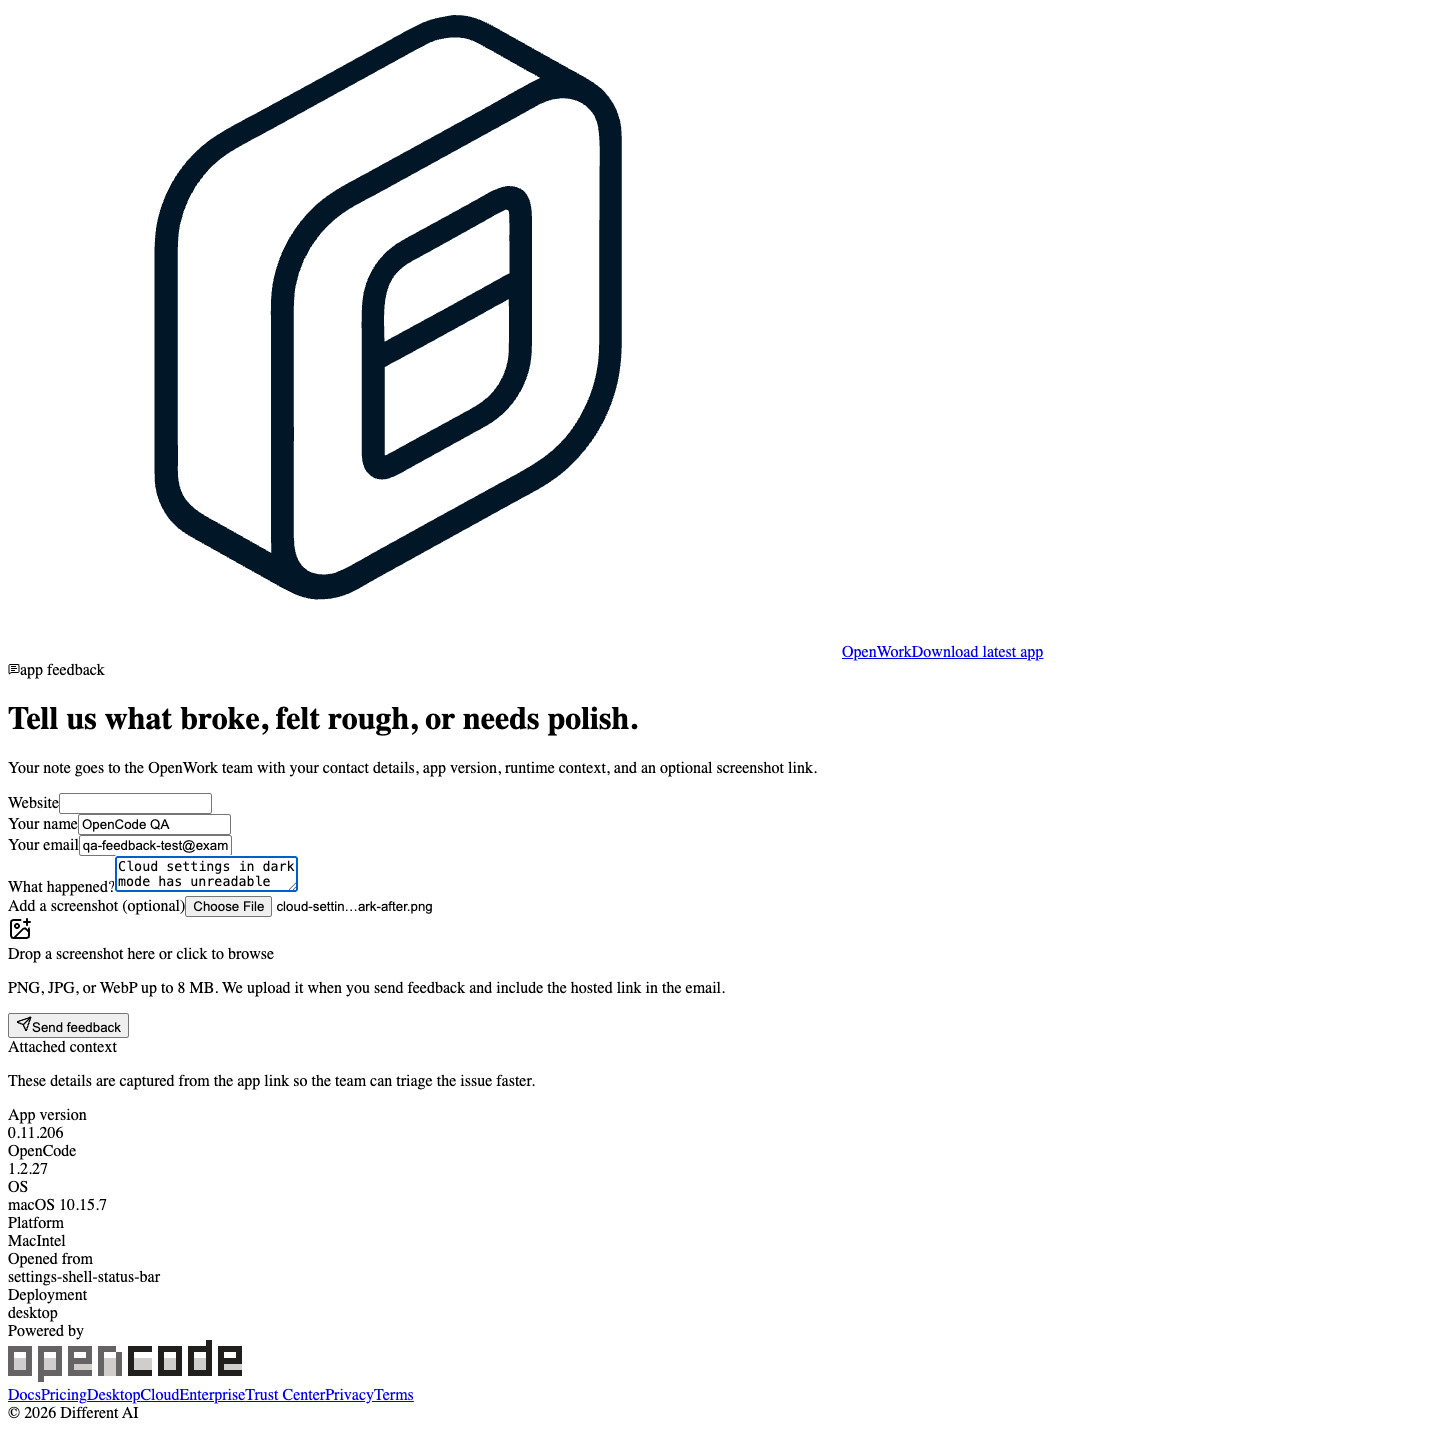
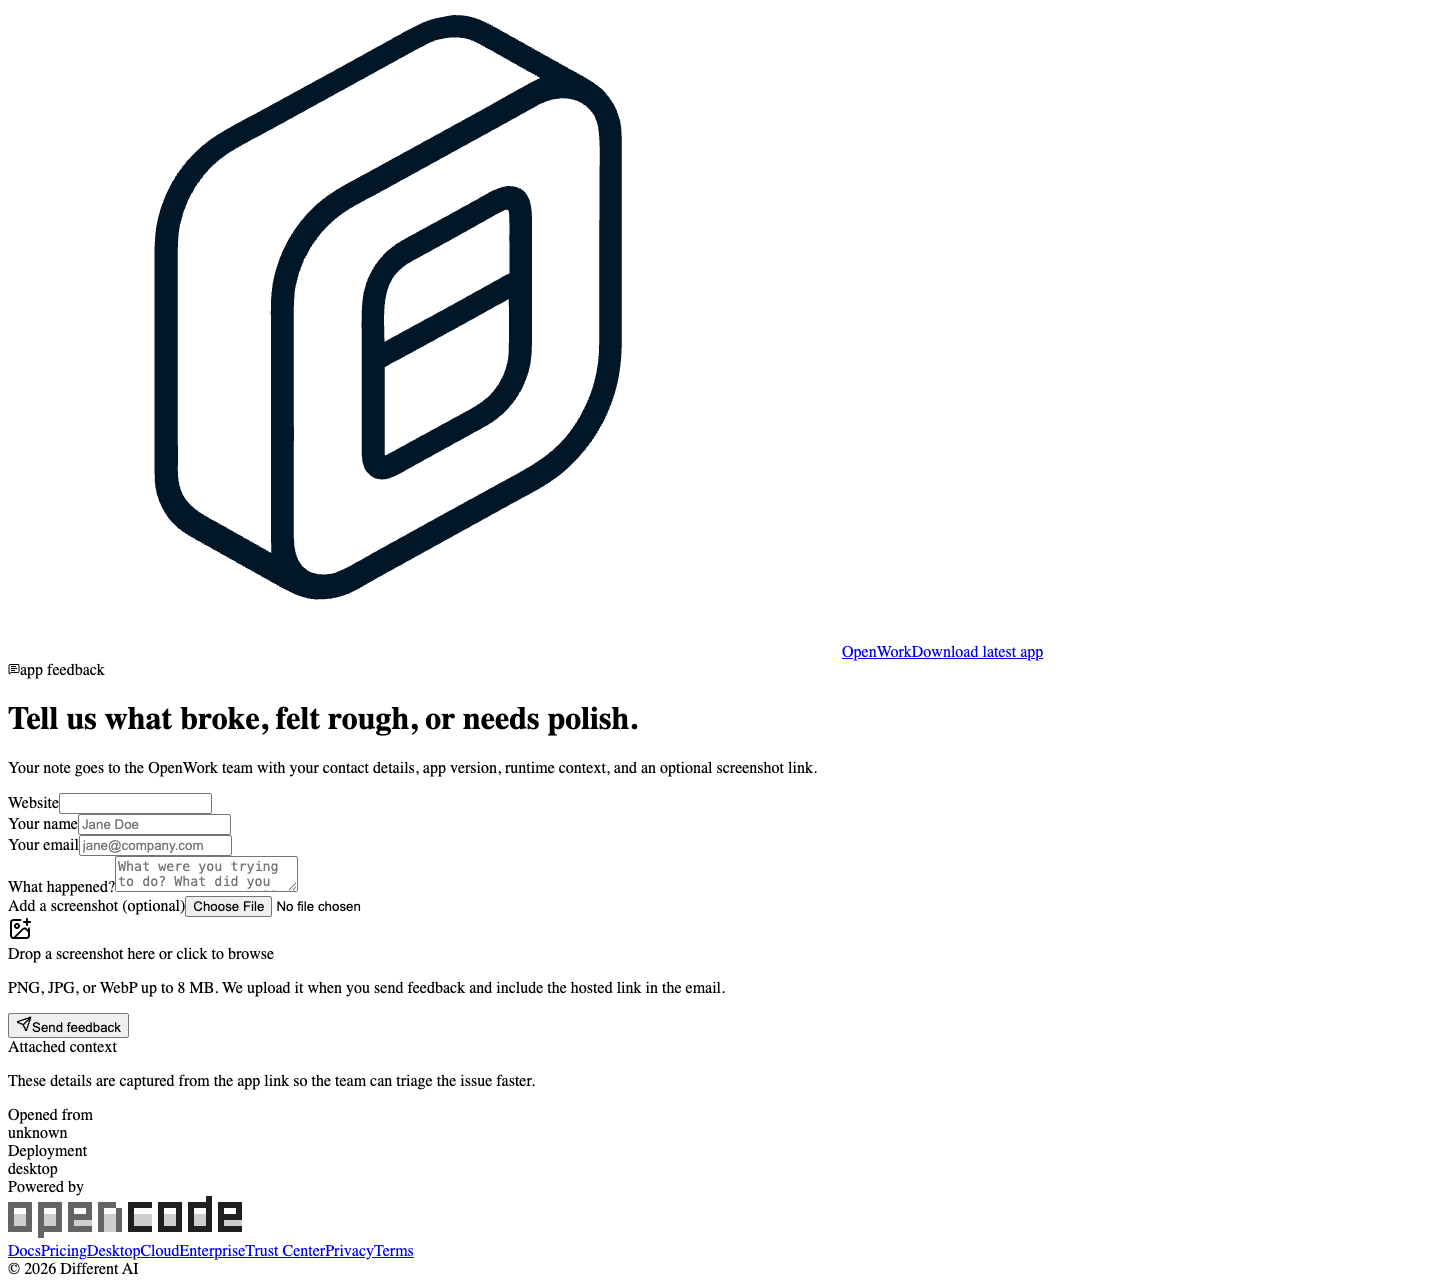
fix(landing): compact feedback screenshot uploader

diff --git a/ee/apps/landing/components/app-feedback-form.tsx b/ee/apps/landing/components/app-feedback-form.tsx
@@ -339,99 +339,6 @@ export function AppFeedbackForm(props: Props) {
                 />
               </div>
 
-              <div>
-                <label className="mb-2 block text-[12px] font-semibold uppercase tracking-[0.16em] text-slate-500">
-                  Add a screenshot (optional)
-                </label>
-                <input
-                  ref={inputRef}
-                  type="file"
-                  accept={ACCEPTED_IMAGE_TYPES.join(",")}
-                  className="hidden"
-                  onChange={(event) => selectImage(event.target.files?.[0] ?? null)}
-                  disabled={isBusy}
-                />
-                <div
-                  role="button"
-                  tabIndex={0}
-                  onClick={() => !isBusy && inputRef.current?.click()}
-                  onKeyDown={(event) => {
-                    if (isBusy) return;
-                    if (event.key === "Enter" || event.key === " ") {
-                      event.preventDefault();
-                      inputRef.current?.click();
-                    }
-                  }}
-                  onDragOver={(event) => {
-                    event.preventDefault();
-                    if (!isBusy) setDragActive(true);
-                  }}
-                  onDragLeave={(event) => {
-                    event.preventDefault();
-                    setDragActive(false);
-                  }}
-                  onDrop={(event) => {
-                    event.preventDefault();
-                    setDragActive(false);
-                    if (isBusy) return;
-                    selectImage(event.dataTransfer.files?.[0] ?? null);
-                  }}
-                  className={`rounded-[1.5rem] border border-dashed px-5 py-5 transition ${dragActive ? "border-sky-400 bg-sky-50/80" : "border-slate-300 bg-slate-50/75 hover:border-slate-400 hover:bg-white"} ${isBusy ? "cursor-not-allowed opacity-70" : "cursor-pointer"}`}
-                  aria-label="Add a screenshot"
-                >
-                  {selectedImage ? (
-                    <div className="space-y-4">
-                      <div className="overflow-hidden rounded-[1.1rem] border border-slate-200 bg-white">
-                        {imagePreviewUrl ? (
-                          <img
-                            src={imagePreviewUrl}
-                            alt="Screenshot preview"
-                            className="max-h-[260px] w-full object-cover"
-                          />
-                        ) : null}
-                      </div>
-                      <div className="flex flex-wrap items-center justify-between gap-3 rounded-[1.15rem] border border-slate-200 bg-white px-4 py-3">
-                        <div>
-                          <div className="text-[14px] font-medium text-[#011627]">
-                            {selectedImage.name}
-                          </div>
-                          <div className="mt-1 text-[12px] text-slate-500">
-                            {formatFileSize(selectedImage.size)}
-                            {uploadedAttachment ? " - screenshot link ready" : " - uploaded when you send feedback"}
-                          </div>
-                        </div>
-                        <button
-                          type="button"
-                          onClick={(event) => {
-                            event.stopPropagation();
-                            clearImage();
-                          }}
-                          disabled={isBusy}
-                          className="inline-flex items-center gap-1 rounded-full border border-slate-200 bg-white px-3 py-1.5 text-[12px] font-medium text-slate-600 transition hover:border-slate-300 hover:text-slate-900"
-                        >
-                          <X size={14} />
-                          Remove
-                        </button>
-                      </div>
-                    </div>
-                  ) : (
-                    <div className="flex flex-col items-center justify-center gap-3 text-center">
-                      <div className="inline-flex h-12 w-12 items-center justify-center rounded-full bg-white text-sky-600 shadow-sm">
-                        <ImagePlus className="h-5 w-5" />
-                      </div>
-                      <div>
-                        <div className="text-[15px] font-medium text-[#011627]">
-                          Drop a screenshot here or click to browse
-                        </div>
-                        <p className="mt-1 text-[13px] leading-relaxed text-slate-500">
-                          PNG, JPG, or WebP up to 8 MB. We upload it when you send feedback and include the hosted link in the email.
-                        </p>
-                      </div>
-                    </div>
-                  )}
-                </div>
-              </div>
-
               {state === "error" ? (
                 <div className="flex items-start gap-3 rounded-[1.25rem] border border-red-200 bg-red-50/90 px-4 py-3 text-[13px] leading-relaxed text-red-700">
                   <AlertCircle className="mt-0.5 h-4 w-4 shrink-0" />
@@ -478,6 +385,100 @@ export function AppFeedbackForm(props: Props) {
                 </div>
               </div>
             ))}
+          </div>
+
+          <div className="mt-5 border-t border-white/10 pt-5">
+            <div className="text-[11px] font-semibold uppercase tracking-[0.18em] text-sky-200/80">
+              Screenshot
+            </div>
+            <p className="mt-2 text-[13px] leading-relaxed text-slate-300">
+              Optional. Upload one image and we will include its hosted link in the feedback email.
+            </p>
+            <input
+              ref={inputRef}
+              type="file"
+              accept={ACCEPTED_IMAGE_TYPES.join(",")}
+              className="hidden"
+              onChange={(event) => selectImage(event.target.files?.[0] ?? null)}
+              disabled={isBusy}
+            />
+            <div
+              role="button"
+              tabIndex={0}
+              onClick={() => !isBusy && inputRef.current?.click()}
+              onKeyDown={(event) => {
+                if (isBusy) return;
+                if (event.key === "Enter" || event.key === " ") {
+                  event.preventDefault();
+                  inputRef.current?.click();
+                }
+              }}
+              onDragOver={(event) => {
+                event.preventDefault();
+                if (!isBusy) setDragActive(true);
+              }}
+              onDragLeave={(event) => {
+                event.preventDefault();
+                setDragActive(false);
+              }}
+              onDrop={(event) => {
+                event.preventDefault();
+                setDragActive(false);
+                if (isBusy) return;
+                selectImage(event.dataTransfer.files?.[0] ?? null);
+              }}
+              className={`mt-3 rounded-[1.1rem] border border-dashed p-3 transition ${dragActive ? "border-sky-300 bg-sky-400/10" : "border-white/15 bg-white/[0.04] hover:border-white/30 hover:bg-white/[0.06]"} ${isBusy ? "cursor-not-allowed opacity-70" : "cursor-pointer"}`}
+              aria-label="Add a screenshot"
+            >
+              {selectedImage ? (
+                <div className="flex items-center gap-3">
+                  <div className="h-14 w-14 overflow-hidden rounded-xl border border-white/10 bg-white/5 shrink-0">
+                    {imagePreviewUrl ? (
+                      <img
+                        src={imagePreviewUrl}
+                        alt="Screenshot preview"
+                        className="h-full w-full object-cover"
+                      />
+                    ) : null}
+                  </div>
+                  <div className="min-w-0 flex-1">
+                    <div className="truncate text-[13px] font-medium text-white">
+                      {selectedImage.name}
+                    </div>
+                    <div className="mt-1 text-[12px] text-slate-300">
+                      {formatFileSize(selectedImage.size)}
+                      {uploadedAttachment ? " - link ready" : " - uploads on send"}
+                    </div>
+                  </div>
+                  <button
+                    type="button"
+                    onClick={(event) => {
+                      event.stopPropagation();
+                      clearImage();
+                    }}
+                    disabled={isBusy}
+                    className="inline-flex items-center gap-1 rounded-full border border-white/15 bg-white/5 px-2.5 py-1.5 text-[12px] font-medium text-slate-200 transition hover:border-white/30 hover:bg-white/10 hover:text-white"
+                  >
+                    <X size={13} />
+                    Remove
+                  </button>
+                </div>
+              ) : (
+                <div className="flex items-center gap-3">
+                  <div className="inline-flex h-10 w-10 shrink-0 items-center justify-center rounded-full bg-white/10 text-sky-200">
+                    <ImagePlus className="h-4 w-4" />
+                  </div>
+                  <div className="min-w-0 flex-1">
+                    <div className="text-[13px] font-medium text-white">
+                      Drop an image here or click to browse
+                    </div>
+                    <div className="mt-1 text-[12px] text-slate-300">
+                      PNG, JPG, or WebP up to 8 MB.
+                    </div>
+                  </div>
+                </div>
+              )}
+            </div>
           </div>
         </aside>
       </div>
